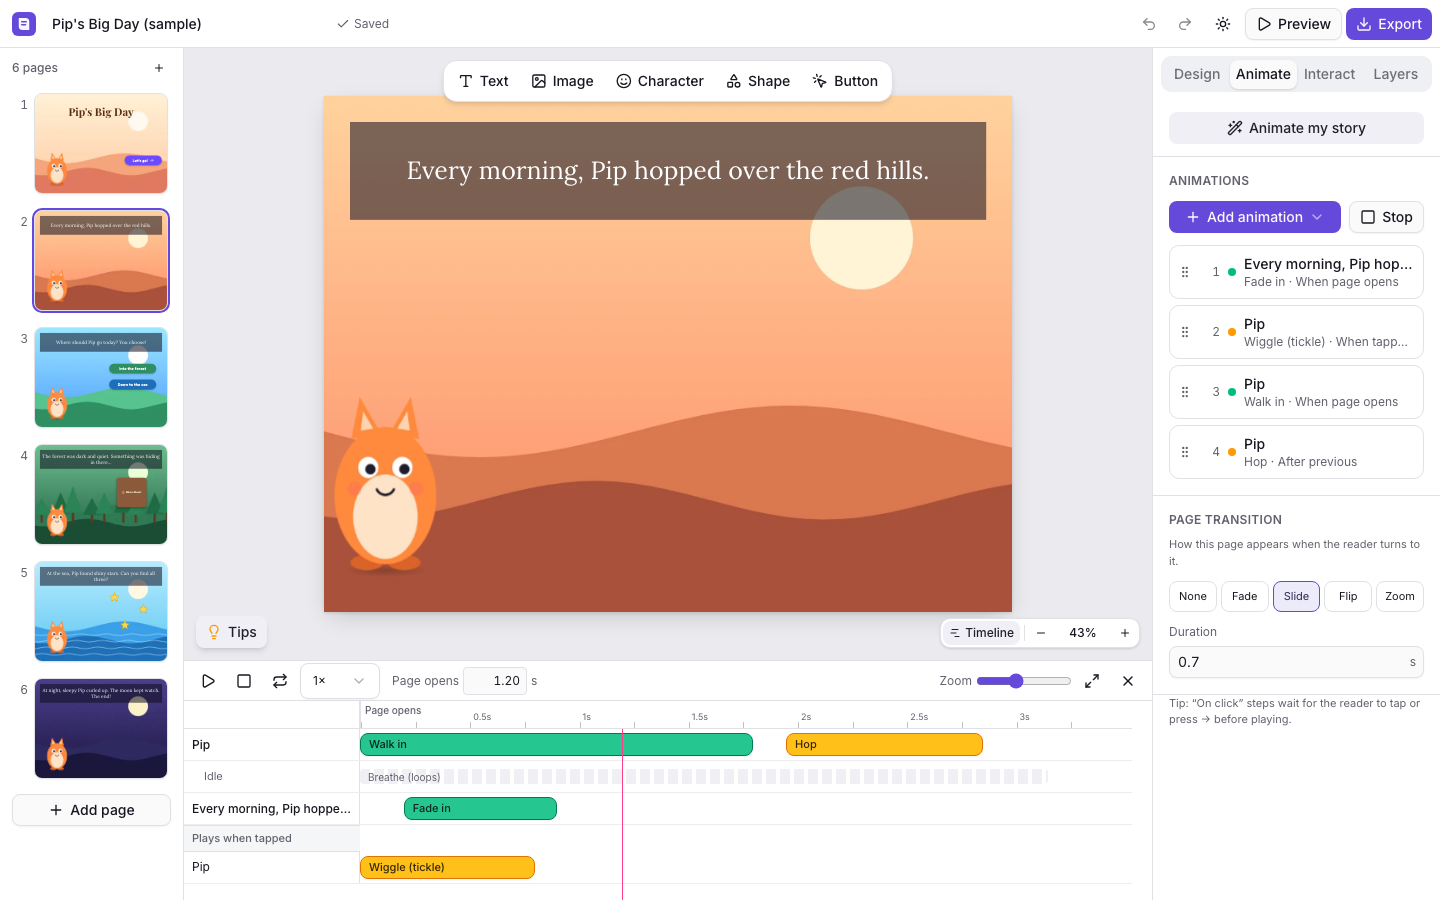
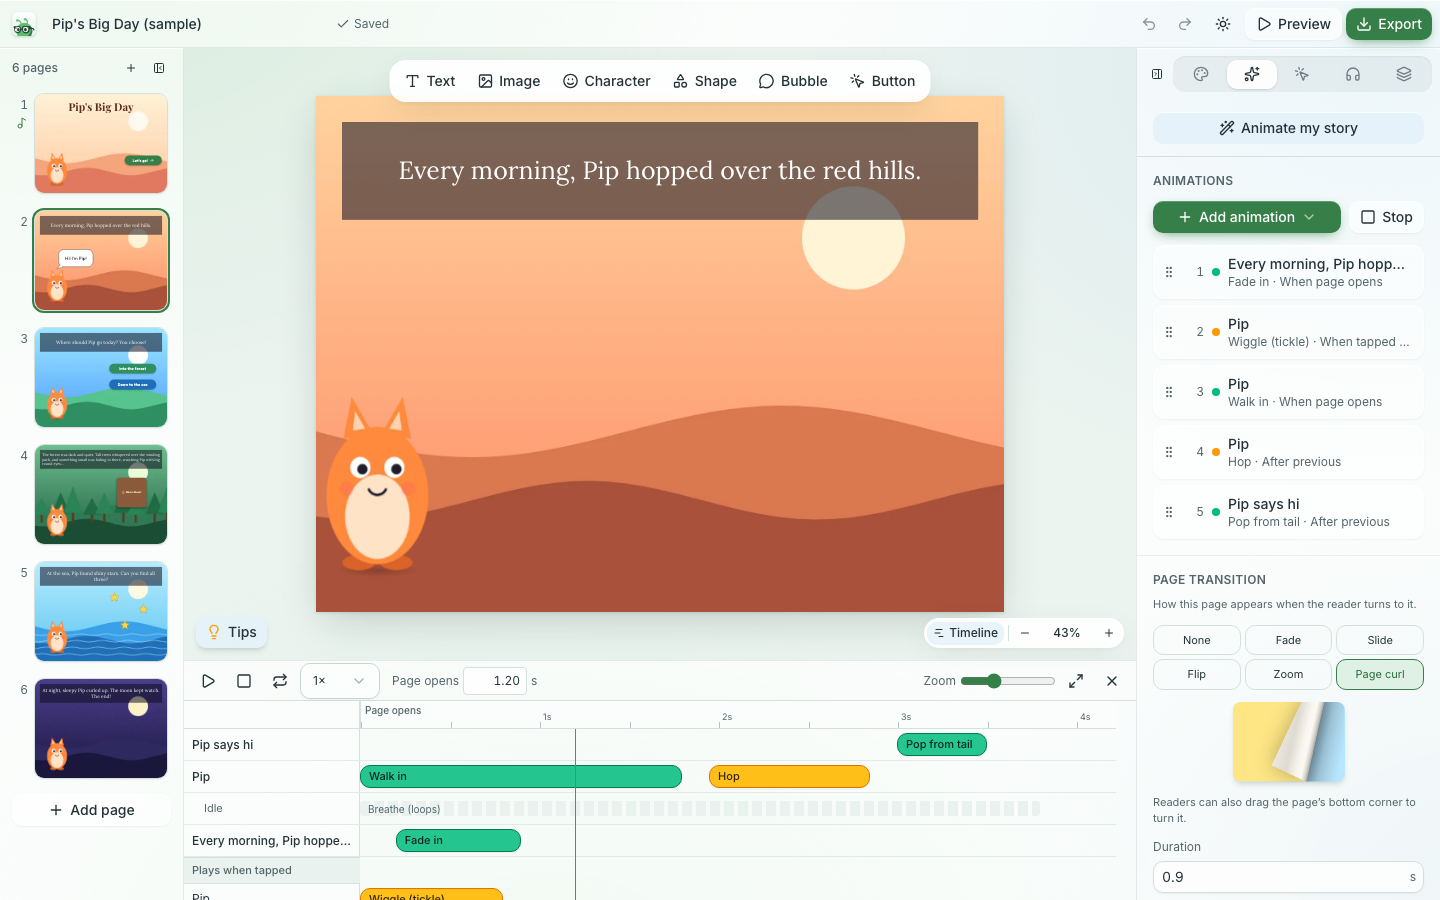
README and screenshots for Inkbug

diff --git a/tests/e2e/brand.spec.ts b/tests/e2e/brand.spec.ts
@@ -1,0 +1,32 @@
+import { expect, test } from '@playwright/test';
+
+test('Inkbug: title, favicons and the logo', async ({ page, request }) => {
+  await page.goto('/');
+  await expect(page).toHaveTitle('Inkbug');
+  const icons = await page
+    .locator('link[rel="icon"], link[rel="apple-touch-icon"], link[rel="manifest"]')
+    .evaluateAll((links) => links.map((l) => (l as HTMLLinkElement).href));
+  expect(icons.length).toBeGreaterThanOrEqual(4);
+  for (const href of icons) {
+    const res = await request.get(href);
+    expect(res.status(), href).toBe(200);
+    expect(res.headers()['content-type'], href).toMatch(/image\/|json|manifest/);
+  }
+  const mark = page.getByRole('banner').locator('img').first();
+  await expect(mark).toBeVisible();
+  expect(await mark.evaluate((img) => (img as HTMLImageElement).naturalWidth)).toBeGreaterThan(0);
+  await expect(page.getByRole('banner')).toContainText('Inkbug');
+});
+
+test('glass panels turn solid for readers who ask for less transparency', async ({ page }) => {
+  await page.goto('/');
+  const header = page.getByRole('banner');
+  await expect(header).toBeVisible();
+  const blur = () => header.evaluate((el) => getComputedStyle(el).backdropFilter);
+  expect(await blur()).toContain('blur');
+  const cdp = await page.context().newCDPSession(page);
+  await cdp.send('Emulation.setEmulatedMedia', {
+    features: [{ name: 'prefers-reduced-transparency', value: 'reduce' }],
+  });
+  await expect.poll(blur).toBe('none');
+});

diff --git a/README.md b/README.md
@@ -1,6 +1,8 @@
-# Folio
+<p align="center"><img src="docs/brand/inkbug-mark.png" width="96" height="96" alt="Inkbug: a green bookworm in glasses"></p>
 
-**Folio** (working name) is a browser-based editor for **interactive, animated ebooks**. It works
+# Inkbug
+
+**Inkbug** (formerly Folio) is a browser-based editor for **interactive, animated ebooks**. It works
 like a simplified Canva or PowerPoint, built around book pages. The payoff is the export:
 **one standalone HTML file** that anyone can open by double-clicking. It works offline, needs no
 install or account, and looks and behaves exactly like the editor's preview.
@@ -66,7 +68,8 @@ install or account, and looks and behaves exactly like the editor's preview.
 - **Export**
   - **Single HTML file** (default) or **ZIP** (`index.html` + `assets/`).
   - Size estimate with a warning above 25 MB.
-  - Optional "Made with Folio" badge (on by default).
+  - Optional "Made with Inkbug" badge (on by default), with the Inkbug icon as the tab icon.
+    Turn the badge off and the book carries no Inkbug branding at all.
   - Only the fonts actually used are embedded, as base64 woff2.
   - A strict Content-Security-Policy keeps the book fully offline.
 - **Characters ("make it move")**
@@ -146,6 +149,10 @@ install or account, and looks and behaves exactly like the editor's preview.
   ("Pip's Big Day": a mascot with a speech bubble, curling pages, soft background music, a
   justified paragraph, a choice, a flap, a star hunt and two endings). Light and dark
   themes.
+- **Look and feel:** frosted-glass panels over a soft green-and-blue backdrop, in the colours
+  of the Inkbug logo (leaf and forest green, sky and ocean blue, ink). Panels turn solid for
+  readers who ask for less transparency or more contrast, and in forced-colour modes. New books
+  start green with blue accents; existing books keep their own colours.
 
 ## Getting started
 
@@ -178,7 +185,8 @@ Open http://localhost:5173. Everything is stored locally in your browser (Indexe
 | `pnpm test:e2e`                          | Playwright E2E, including the export round trip over `file://`                                    |
 | `pnpm build:player` / `pnpm size:player` | Builds the standalone reader and checks it against the 150 KB gzip budget (currently about 39 KB) |
 | `pnpm check`                             | typecheck + lint + format check + unit tests                                                      |
-| `node scripts/screenshots.mjs`           | Regenerates the v2 README screenshots from the sample book (with `pnpm dev` running)              |
+| `node scripts/screenshots.mjs`           | Regenerates every README screenshot from the sample book (with `pnpm dev` running)                |
+| `pnpm brand:icons`                       | Rebuilds the favicons and logo marks from `logo-ebook.jpeg`                                       |
 
 The first E2E run needs a browser: `pnpm exec playwright install chromium`.
 
@@ -324,6 +332,14 @@ tests/e2e/     Playwright specs
 - **Fonts:** 10 OFL-licensed variable fonts from `@fontsource-variable`, latin and latin-ext
   subsets. The same woff2 files serve the editor and get embedded in exports.
 - **The export is a vanilla-TS player** (no React), so exported books stay tiny.
+- **Glass, on purpose and in few places.** Tokens live in `src/index.css`. Docked panels use
+  `glass`, floating UI `glass-strong`, and repeated items `glass-subtle` (no blur, so a
+  100-page list stays fast). The classic tokens (`--background`, `--popover`…) stay opaque, and
+  sticky headers use the opaque `--surface`. Blur never sits on an ancestor of a
+  `position: fixed` element, such as the stage's marquee or the preview. `src/ui/contrast.test.ts`
+  checks every theme's text contrast.
+- **The rename kept internal names.** Storage keys, the database, CSS prefixes and the export
+  format still say `folio`, so saved books, settings and old exports keep working.
 
 ## Extending
 
